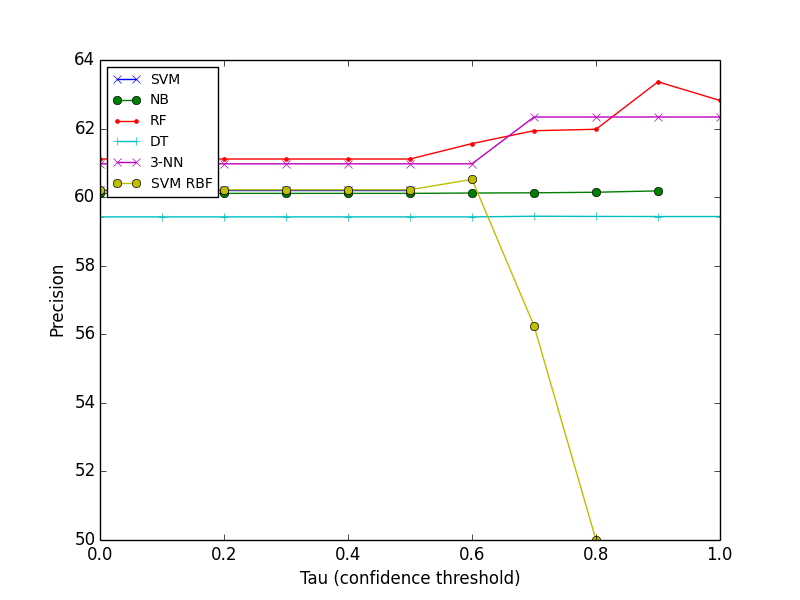
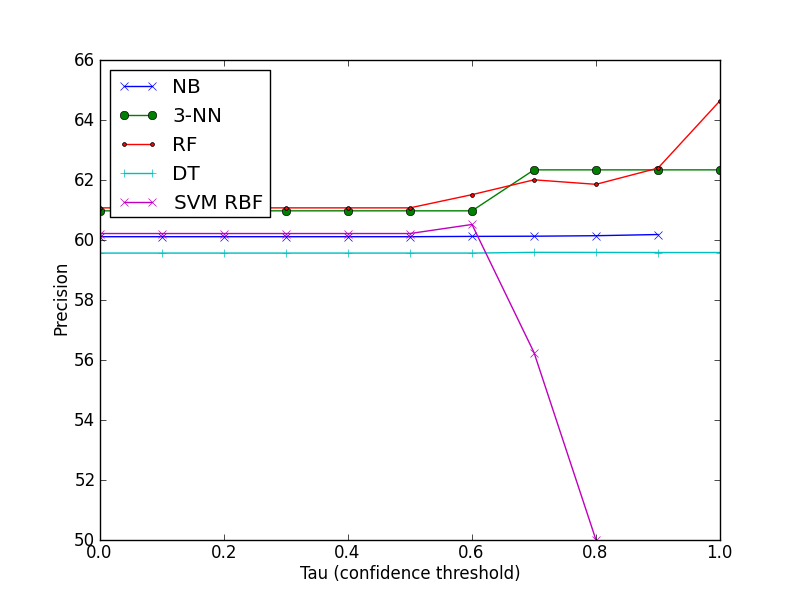
Several tweaks to eval script to get confusion matrix in correct order and correctly compute efficiency.

diff --git a/eval_classifier.py b/eval_classifier.py
@@ -27,16 +27,12 @@ infile  = 'wesleyan.pkl'
 resfile = 'results.pkl'
 tau_values = np.linspace(0,1,11)
 
-# weeding efficiency
-def weeding_efficiency(cm):
-    # e_w = a(a+b+c+d) / ((a+b)(a+c))
-    # Note that this assumes a contingency matrix with 
-    # Withdraw first and Keep second (it is weeding efficiency).
-    # Since ours are alphabetical, we have to invert.
-    # Also assumes predicted = rows and human = columns, 
-    # which is also inverted.  Argh.
-    # e_w = d(a+b+c+d) / ((b+d)(c+d))
-    e_w = cm[1,1]*np.sum(cm)*1.0 / (cm[0,1]+cm[1,1]) / (cm[1,0]+cm[1,1])
+# weeding efficiency = ratio of classifier precision to the original
+# (label) precision
+def weeding_efficiency(cm, orig_prec):
+    # Assuming rows = machine and cols = human:
+    # classifier precision: d / (c+d)
+    e_w = cm[1,1]*1.0/(cm[1,0]+cm[1,1]) /  orig_prec
 
     return e_w
     
@@ -48,7 +44,8 @@ def train_and_eval(clf, train, test, labels_train, labels_test):
     # Predict on training data, then test data
     pred_tr = clf.predict(train)
 
-    cm = confusion_matrix(labels_train, pred_tr)
+    # Confusion matrix rows = first arg, cols = second arg
+    cm = confusion_matrix(pred_tr, labels_train)
     print cm
     print 'Training accuracy: %d / %d = %.2f%%' % (cm[0,0] + cm[1,1], 
                                                    np.sum(cm),
@@ -59,7 +56,11 @@ def train_and_eval(clf, train, test, labels_train, labels_test):
     print 'Phi: %.2f' % phi,
     # Significance - use chi-2 with 1 dof: chi2 = N * phi^2
     print 'Sig (chi^2): %.2f' % (len(labels_train) * pow(phi,2)),
-    print 'E_W = %.2f' % weeding_efficiency(cm)
+    total_weed = len([l for l in labels_test if l == 'Withdrawn'])
+    print 'E_W = %.2f' % weeding_efficiency(cm,
+                                            total_weed*1.0/len(labels_test))
+
+
     '''
     print 'Alternatively...'
     print chi2_contingency(cm)
@@ -72,7 +73,7 @@ def train_and_eval(clf, train, test, labels_train, labels_test):
     ######## Testing data ########
     pred_te = clf.predict(test)
 
-    cm = confusion_matrix(labels_test, pred_te)
+    cm = confusion_matrix(pred_te, labels_test)
     print cm
     print 'Testing accuracy: %d / %d = %.2f%%' % (cm[0,0] + cm[1,1], 
                                                    np.sum(cm),
@@ -98,7 +99,8 @@ def train_and_eval(clf, train, test, labels_train, labels_test):
     except:
         pass
     '''
-    print 'E_W = %.2f' % weeding_efficiency(cm)
+    print 'E_W = %.2f' % weeding_efficiency(cm,
+                                            total_weed*1.0/len(labels_test))
 
     # Sweep a confidence threshold
     try:
@@ -107,27 +109,36 @@ def train_and_eval(clf, train, test, labels_train, labels_test):
         conf_te = -1
         return clf
 
-    res        = np.zeros((len(tau_values),8))
+    res        = np.ones((len(tau_values),8))*np.nan
     total_weed = len([l for l in labels_test if l == 'Withdrawn'])
     for i,tau in enumerate(tau_values):
+        res[i,0] = tau
+
         conf_pred = [(l,p) for (l,p,c) in zip(labels_test, pred_te, conf_te) \
                          if c >= tau]
         if len(conf_pred) == 0:
-            res[i,:] = 0
             continue
 
         l, p = zip(*conf_pred)
-        cm = confusion_matrix(l, p)
-        res[i,0] = tau
+        cm = confusion_matrix(p, l)
+        if tau == 1.0:
+            print cm
         res[i,1] = (cm[0,0] + cm[1,1])*100.0 / np.sum(cm) # accuracy
         res[i,2] = cm[1,1]*100.0 / total_weed             # recall
-        res[i,3] = cm[1,1]*100.0 / (cm[0,1] + cm[1,1])    # precision
-        res[i,4] = weeding_efficiency(cm)  # efficiency
+        try:
+            if cm[1,1] == 0: # no accurate withdraw predictions
+                res[i,3] = 0
+            else:
+                res[i,3] = cm[1,1]*100.0 / (cm[1,0] + cm[1,1])    # precision
+        except:
+            pass
+        res[i,4] = weeding_efficiency(cm, 
+                                      total_weed*1.0/len(labels_test))  # efficiency
         res[i,5] = matthews_corrcoef(l, p) # phi
         try:
             res[i,6] = chi2_contingency(cm)[1]
         except:
-            res[i,6] = np.nan
+            pass
         res[i,7] = np.sum(cm) # number of items used
 
     print res
@@ -137,7 +148,7 @@ def train_and_eval(clf, train, test, labels_train, labels_test):
 
 def eval_baseline(labels, pred):
 
-    cm = confusion_matrix(labels, pred)
+    cm = confusion_matrix(pred, labels)
     print cm
 
     print 'Accuracy: %d / %d = %.2f%%' % (cm[0,0] + cm[1,1], np.sum(cm),
@@ -153,10 +164,12 @@ def eval_baseline(labels, pred):
         print chi2_contingency(cm)[1]
     except:
         print "couldn't compute chi2 sig."
-    print 'Recall = %.2f'    % (cm[1,1]*100.0 / (cm[1,0] + cm[1,1]))
-    print 'Precision = %.2f' % (cm[1,1]*100.0 / (cm[0,1] + cm[1,1]))
-    print 'E_W = %.2f' % weeding_efficiency(cm)
-    
+    print 'Recall = %.2f'    % (cm[1,1]*100.0 / (cm[0,1] + cm[1,1]))
+    print 'Precision = %.2f' % (cm[1,1]*100.0 / (cm[1,0] + cm[1,1]))
+    total_weed = len([l for l in labels if l == 'Withdrawn'])
+    print 'E_W = %.2f' % weeding_efficiency(cm,
+                                            total_weed*1.0/len(labels))
+
 
 # Read in pickled data file
 with open(infile, 'r') as inf:
@@ -192,6 +205,7 @@ print
 
 result = {}
 
+'''
 # 1. Linear SVM
 # Use dual=False when n_samples > n_features.
 # Use random_state to seed the random number generator (reproducible).
@@ -205,6 +219,7 @@ print 'All features:'
 #clf = train_and_eval(clf, data[train,0:4], data[test,0:4], 
 #                     labels[train], labels[test])
 print
+'''
 
 # 1a. RBF SVM
 # Use random_state to seed the random number generator (reproducible).

diff --git a/plot_results.py b/plot_results.py
@@ -14,11 +14,11 @@ m = ['x','o','.','+']
 with open(resfile, 'r') as inf:
     result = pickle.load(inf)
 
-# Replace 0-acc with NaN
+# Replace 0-precision with NaN
 for c in result.keys():
-    result[c][:,1:] = np.where(result[c][:,1:] == 0,
-                               np.nan,
-                               result[c][:,1:])
+    result[c][:,3] = np.where(result[c][:,3] == 0,
+                              np.nan,
+                              result[c][:,3])
 
 # Plot baselines
 
@@ -33,7 +33,7 @@ for (ind, value) in enumerate(['Accuracy',
     for (i,c) in enumerate(result.keys()):
         pylab.plot(result[c][:,0], result[c][:,ind+1], 
                    label=c, marker=m[i%len(m)])
-    pylab.legend(fontsize=10, loc=2)
+    pylab.legend(loc=2) #, fontsize=10)
     pylab.xlabel('Tau (confidence threshold)')
     pylab.ylabel(value)
     pylab.savefig('fig/tau-%s.png' % value)
